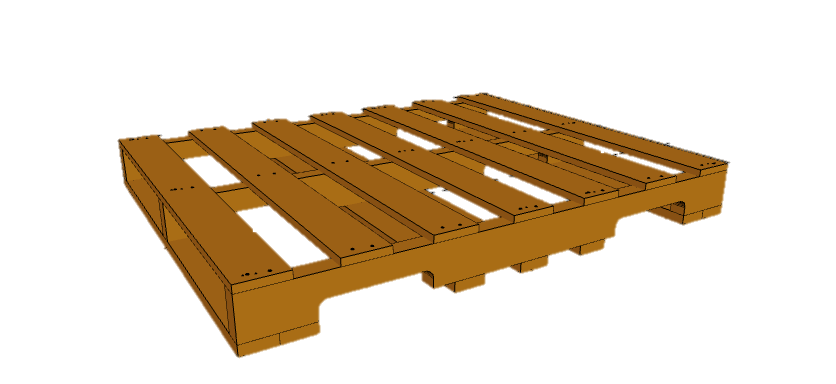
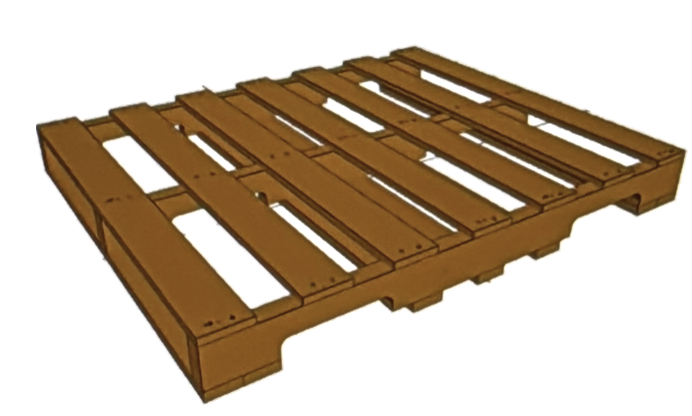
orario e immagine pellet 4

diff --git a/index-original.html b/index-original.html
@@ -28,7 +28,7 @@
             <div class="top-info-container">
                 <span class="info-item"><i data-lucide="mail"></i> pascalesrl@gmail.com</span>
                 <span class="info-item"><i data-lucide="phone"></i> 081/8590027</span>
-                <span class="info-item hide-mobile"><i data-lucide="clock"></i> Lun-Ven: 8-13, 14-17 | Sab: 8-13</span>
+                <span class="info-item hide-mobile"><i data-lucide="clock"></i> Lun-Ven: 8-13, 14-17 </span>
             </div>
         </div>
         <div class="nav-container navbar-main-content">

diff --git a/pallet4vie.html b/pallet4vie.html
@@ -72,7 +72,7 @@
                 <!-- 4 vie americano / stinger -->
                 <div class="service-card">
                     <div class="card-image">
-                        <img src="public/pallet/STRINKER_edit.png" alt="Pallet Americano Stinger">
+                        <img src="public/pallet/strinker.png" alt="Pallet Americano Stinger">
                     </div>
                     <div class="card-content">
                         <h3>PALLET A 4 VIE AMERICANO</h3>
